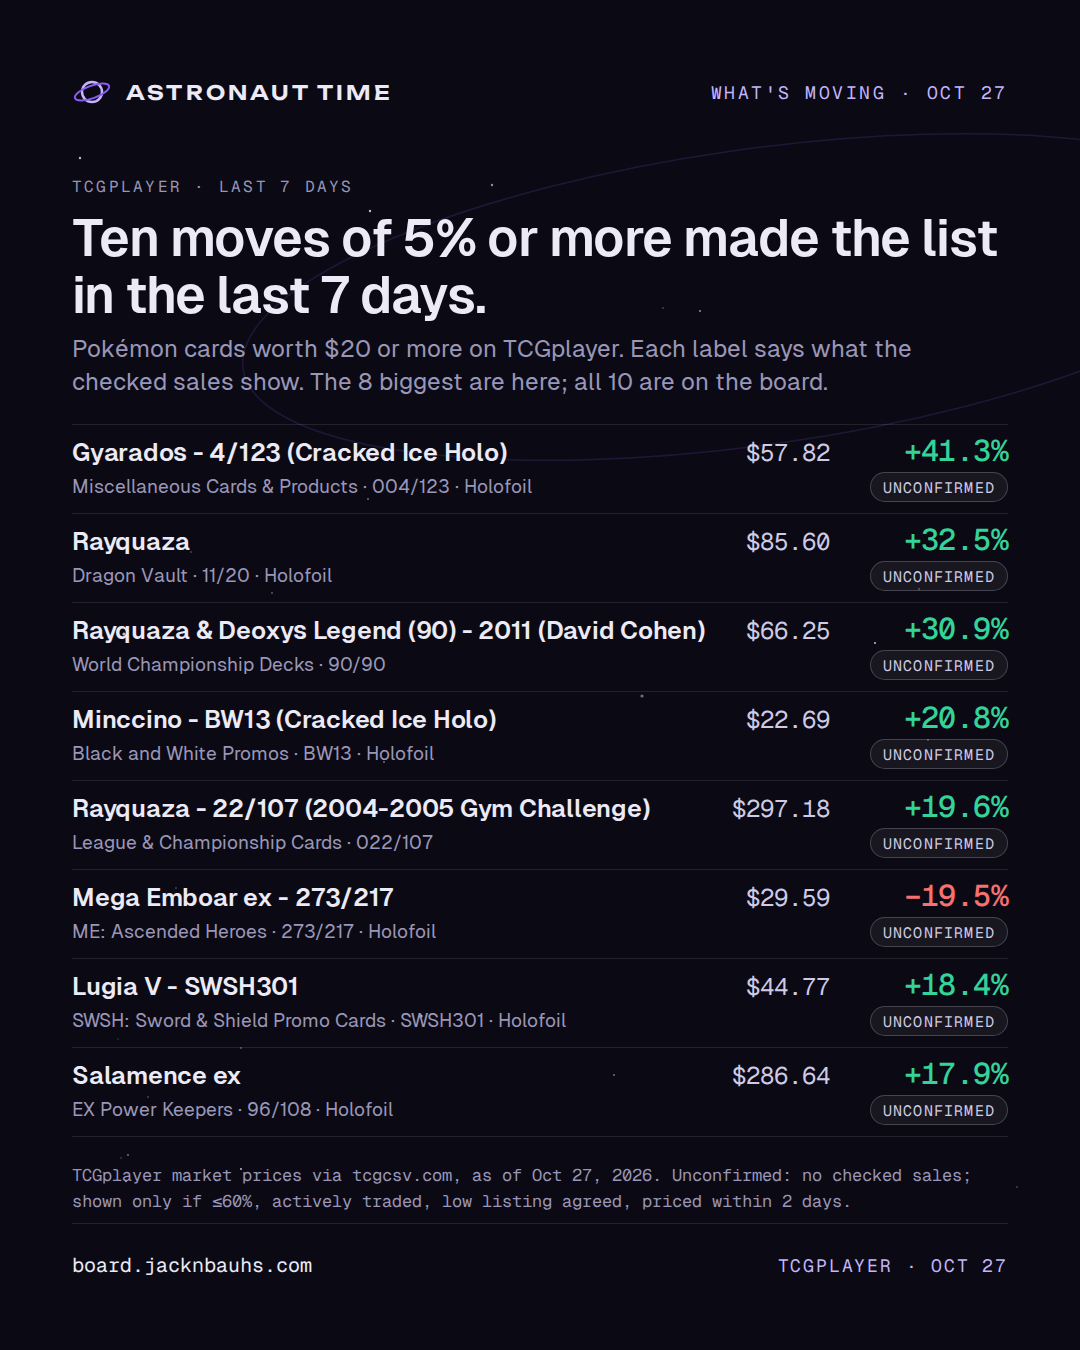
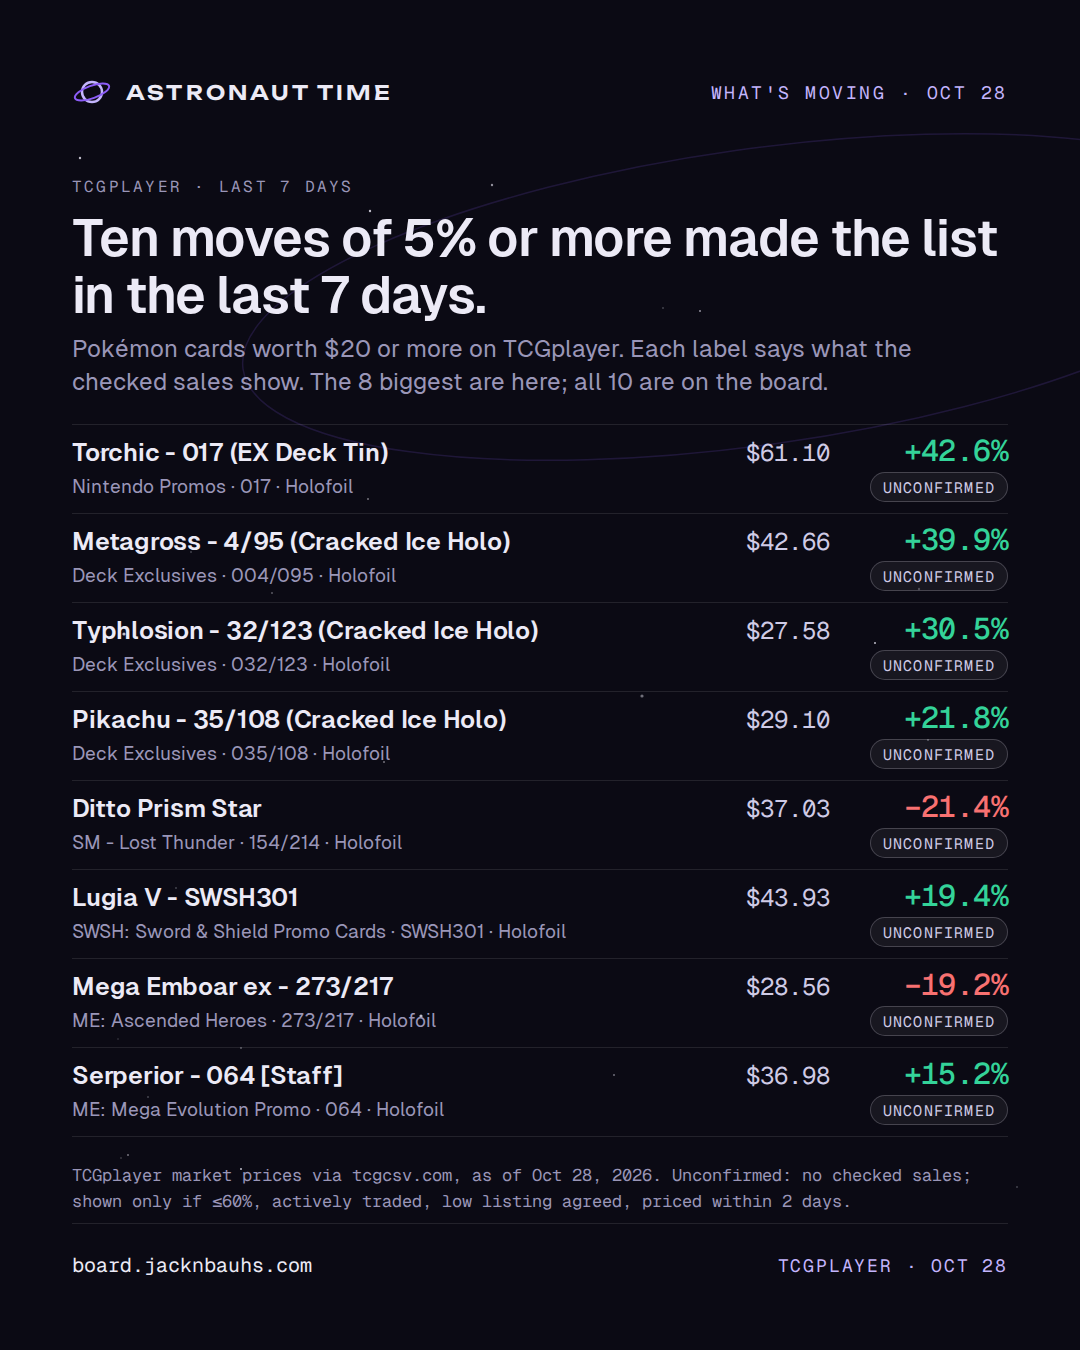
Share kit: render 2026-10-29

diff --git a/card.html b/card.html
@@ -10,14 +10,14 @@
 <meta property="og:url" content="https://board.jacknbauhs.com/card.html">
 <meta property="og:type" content="website">
 <meta property="og:site_name" content="Astronaut Time">
-<meta property="og:image" content="https://board.jacknbauhs.com/assets/og.png?v=2026-10-28">
+<meta property="og:image" content="https://board.jacknbauhs.com/assets/og.png?v=2026-10-29">
 <meta property="og:image:width" content="1200">
 <meta property="og:image:height" content="630">
 <meta property="og:image:alt" content="Mission Control by Astronaut Time: the card market, with the fake sales taken out.">
 <meta name="twitter:card" content="summary_large_image">
 <meta name="twitter:title" content="Card · Mission Control · Astronaut Time">
 <meta name="twitter:description" content="The card market, with the fake sales taken out.">
-<meta name="twitter:image" content="https://board.jacknbauhs.com/assets/og.png?v=2026-10-28">
+<meta name="twitter:image" content="https://board.jacknbauhs.com/assets/og.png?v=2026-10-29">
 <meta name="theme-color" content="#0B0A14">
 <link rel="icon" href="assets/favicon.svg" type="image/svg+xml">
 <link rel="preconnect" href="https://fonts.googleapis.com">

diff --git a/404.html b/404.html
@@ -10,14 +10,14 @@
 <meta property="og:url" content="https://board.jacknbauhs.com/">
 <meta property="og:type" content="website">
 <meta property="og:site_name" content="Astronaut Time">
-<meta property="og:image" content="https://board.jacknbauhs.com/assets/og.png?v=2026-10-28">
+<meta property="og:image" content="https://board.jacknbauhs.com/assets/og.png?v=2026-10-29">
 <meta property="og:image:width" content="1200">
 <meta property="og:image:height" content="630">
 <meta property="og:image:alt" content="Mission Control by Astronaut Time: the card market, with the fake sales taken out.">
 <meta name="twitter:card" content="summary_large_image">
 <meta name="twitter:title" content="Mission Control · Astronaut Time">
 <meta name="twitter:description" content="The card market, with the fake sales taken out.">
-<meta name="twitter:image" content="https://board.jacknbauhs.com/assets/og.png?v=2026-10-28">
+<meta name="twitter:image" content="https://board.jacknbauhs.com/assets/og.png?v=2026-10-29">
 <meta name="theme-color" content="#0B0A14">
 <link rel="icon" href="/assets/favicon.svg" type="image/svg+xml">
 <link rel="preconnect" href="https://fonts.googleapis.com">

diff --git a/index.html b/index.html
@@ -10,14 +10,14 @@
 <meta property="og:url" content="https://board.jacknbauhs.com/">
 <meta property="og:type" content="website">
 <meta property="og:site_name" content="Astronaut Time">
-<meta property="og:image" content="https://board.jacknbauhs.com/assets/og.png?v=2026-10-28">
+<meta property="og:image" content="https://board.jacknbauhs.com/assets/og.png?v=2026-10-29">
 <meta property="og:image:width" content="1200">
 <meta property="og:image:height" content="630">
 <meta property="og:image:alt" content="Mission Control by Astronaut Time: the card market, with the fake sales taken out.">
 <meta name="twitter:card" content="summary_large_image">
 <meta name="twitter:title" content="Mission Control · Astronaut Time">
 <meta name="twitter:description" content="The card market, with the fake sales taken out.">
-<meta name="twitter:image" content="https://board.jacknbauhs.com/assets/og.png?v=2026-10-28">
+<meta name="twitter:image" content="https://board.jacknbauhs.com/assets/og.png?v=2026-10-29">
 <meta name="theme-color" content="#0B0A14">
 <link rel="icon" href="assets/favicon.svg" type="image/svg+xml">
 <link rel="preconnect" href="https://fonts.googleapis.com">

diff --git a/share/out/captions.md b/share/out/captions.md
@@ -1,10 +1,10 @@
-# Captions, board data of 2026-10-28
+# Captions, board data of 2026-10-29
 
 One block per image. Caption first, alt text second. Plain facts, the source and the board link; nothing here is a buy.
 
 ## Before you post
 
-- ✅ Prices are from Oct 27, 2026.
+- ✅ Prices are from Oct 28, 2026.
 - ⚠ All 10 on the 7-day list are unconfirmed: no checked sale behind any. Keep "unconfirmed" in the post and call them price moves, not sales.
 - ⚠ All 10 on the since-yesterday list are unconfirmed: no checked sale behind any. Keep "unconfirmed" in the post and call them price moves, not sales.
 
@@ -46,6 +46,6 @@ Alt: Three calls on the record. Number 001: The 30th Celebration Booster Bundle'
 
 ## moving-2026-W44.png
 
-What's moving on TCGplayer, as of Oct 27, 2026. Ten moves of 5% or more made the list in the last 7 days. Gyarados - 4/123 (Cracked Ice Holo) (Miscellaneous Cards & Products · 004/123 · Holofoil): $57.82, +41.3%, unconfirmed. Rayquaza (Dragon Vault · 11/20 · Holofoil): $85.60, +32.5%, unconfirmed. Rayquaza & Deoxys Legend (90) - 2011 (David Cohen) (World Championship Decks · 90/90): $66.25, +30.9%, unconfirmed. Minccino - BW13 (Cracked Ice Holo) (Black and White Promos · BW13 · Holofoil): $22.69, +20.8%, unconfirmed. Rayquaza - 22/107 (2004-2005 Gym Challenge) (League & Championship Cards · 022/107): $297.18, +19.6%, unconfirmed. Mega Emboar ex - 273/217 (ME: Ascended Heroes · 273/217 · Holofoil): $29.59, −19.5%, unconfirmed. Lugia V - SWSH301 (SWSH: Sword & Shield Promo Cards · SWSH301 · Holofoil): $44.77, +18.4%, unconfirmed. Salamence ex (EX Power Keepers · 96/108 · Holofoil): $286.64, +17.9%, unconfirmed. Unconfirmed: no checked sales; shown only if ≤60%, actively traded, low listing agreed, priced within 2 days. Source: TCGplayer market prices via tcgcsv.com, as of Oct 27, 2026. board.jacknbauhs.com
+What's moving on TCGplayer, as of Oct 28, 2026. Ten moves of 5% or more made the list in the last 7 days. Torchic - 017 (EX Deck Tin) (Nintendo Promos · 017 · Holofoil): $61.10, +42.6%, unconfirmed. Metagross - 4/95 (Cracked Ice Holo) (Deck Exclusives · 004/095 · Holofoil): $42.66, +39.9%, unconfirmed. Typhlosion - 32/123 (Cracked Ice Holo) (Deck Exclusives · 032/123 · Holofoil): $27.58, +30.5%, unconfirmed. Pikachu - 35/108 (Cracked Ice Holo) (Deck Exclusives · 035/108 · Holofoil): $29.10, +21.8%, unconfirmed. Ditto Prism Star (SM - Lost Thunder · 154/214 · Holofoil): $37.03, −21.4%, unconfirmed. Lugia V - SWSH301 (SWSH: Sword & Shield Promo Cards · SWSH301 · Holofoil): $43.93, +19.4%, unconfirmed. Mega Emboar ex - 273/217 (ME: Ascended Heroes · 273/217 · Holofoil): $28.56, −19.2%, unconfirmed. Serperior - 064 [Staff] (ME: Mega Evolution Promo · 064 · Holofoil): $36.98, +15.2%, unconfirmed. Unconfirmed: no checked sales; shown only if ≤60%, actively traded, low listing agreed, priced within 2 days. Source: TCGplayer market prices via tcgcsv.com, as of Oct 28, 2026. board.jacknbauhs.com
 
 Alt: What's moving: the 8 biggest of the 10 TCGplayer moves on the list in the last 7 days, each with its market price, its change and the label for what checked sales show.
